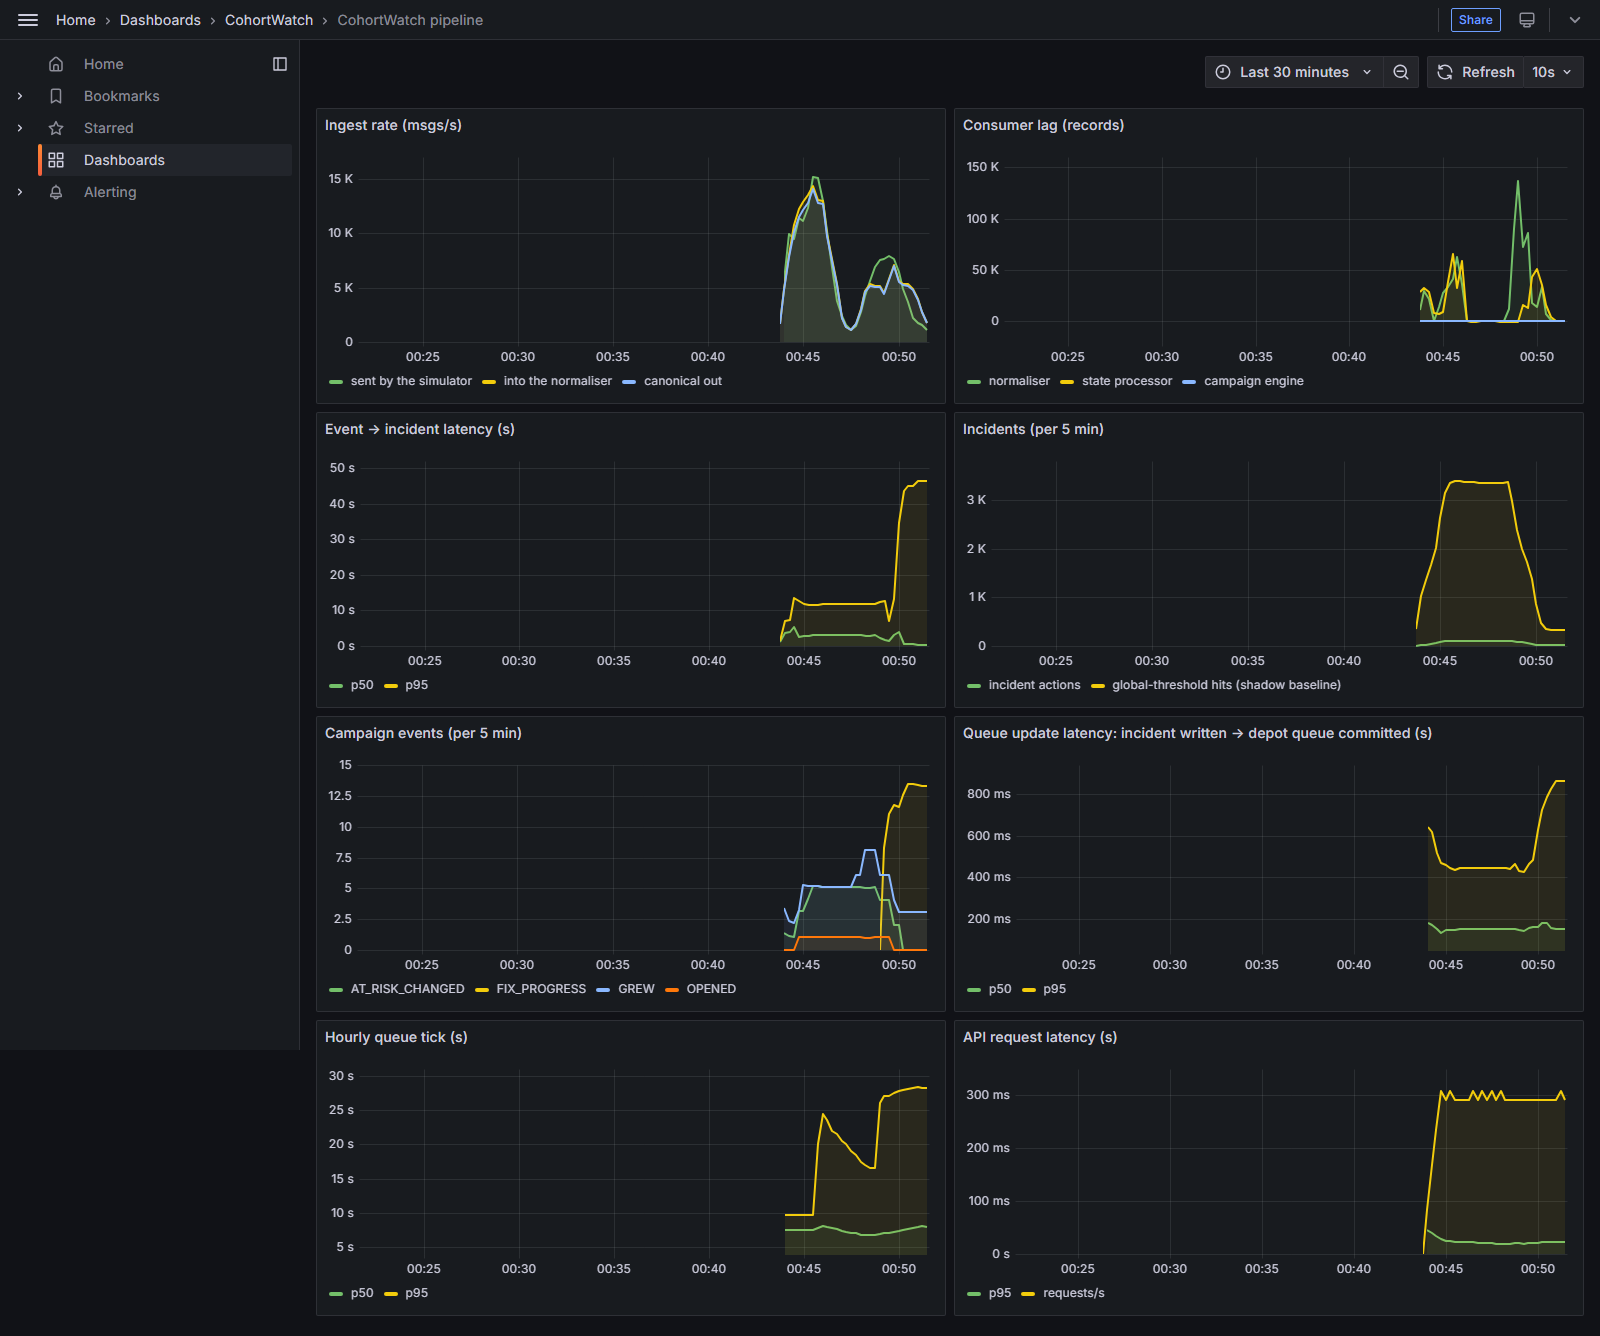
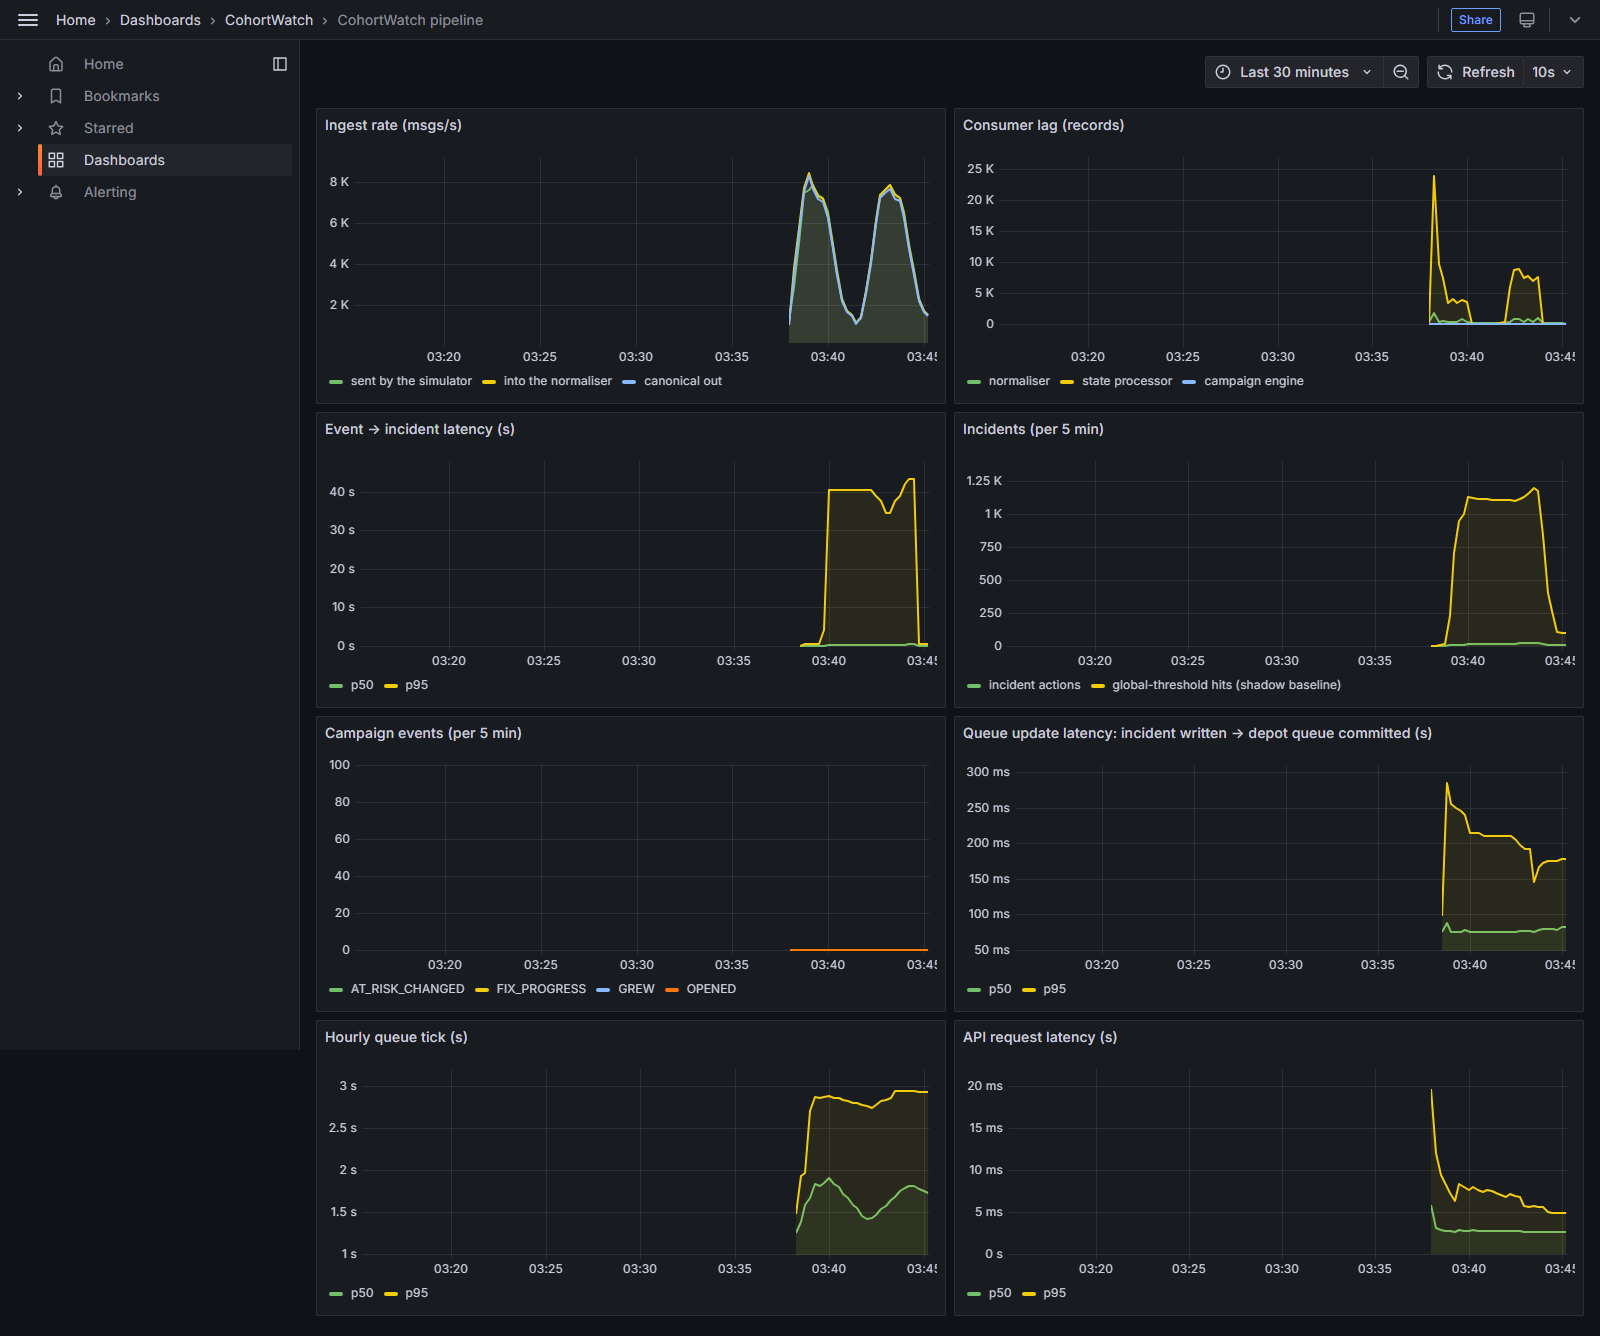
perf(S9): chaos at 30K (recovery: Redis 10 s, normaliser kill 15 s, state-processor kill 50 s; reconcile balanced after; no duplicate effects); Grafana screenshot from run C; S9 report complete

diff --git a/docs/perf/chaos.md b/docs/perf/chaos.md
@@ -1,0 +1,60 @@
+# Chaos checks (S9)
+
+**Setup.** During a live 30K run (run B, sim time past T0+100 h, the simulator still streaming at the 360× demo
+rate), [tests/chaos/run.sh](../../tests/chaos/run.sh) injects three faults, 90 s apart:
+
+1. **Redis restart** (`docker compose restart redis`). Redis holds the normaliser's per-VIN anti-replay state.
+2. **SIGKILL one normaliser replica** (`docker kill --signal=SIGKILL`), started again 10 s later with `docker start`,
+   as an orchestrator would. Docker's restart policy does not restart a container killed by hand.
+3. **SIGKILL one state-processor replica**, the same way.
+
+**Measures.**
+- **Recovery:** time from the fault until throughput is back to ≥ 80% of its level before the fault, from
+  Prometheus (5 s resolution). Canonical-out rate for the normaliser faults, events applied for the
+  state-processor fault.
+- **No loss:** a normaliser reconcile window spanning all three faults (count in = out + DLQ + duplicates
+  dropped), and a second one after the faults.
+- **No duplicate effects:** unique counts in Postgres (incidents, campaign members, repairs, queue versions)
+  and the outbox drained.
+
+## Results (run C, 30K, 2026-10-01 03:45–03:55 IST, sim ≈ T0+100 → T0+160 h)
+
+| Fault | Down | Throughput before | Lowest after | Back to ≥ 80% after |
+|---|---|---|---|---|
+| Redis restart (anti-replay state) | 1 s | 1,911 canonical/s | 726/s | **10 s** |
+| SIGKILL normaliser replica 1 (1 of 3), started again 10 s later | 11 s | 5,713 canonical/s | 709/s | **15 s** |
+| SIGKILL state-processor replica 1 (1 of 3), started again 10 s later | 11 s | 4,247 events/s | 465/s | **50 s** |
+
+The state processor takes longest: its partitions are re-assigned, and the restarted replica reloads its checkpoint
+and baselines (the 30K `vehicle_baseline` load, docs/perf/queries.md #5) before it catches up.
+
+**No loss.** The reconcile window 60 s after the faults is **BALANCED**: 106,650 raw records in = 104,123 canonical
+out + 161 DLQ + 2,366 duplicates dropped. All replicas were healthy again.
+
+**No duplicate effects** (Postgres, after all three faults):
+
+| Check | Result |
+|---|---|
+| Incidents: rows = distinct ids = distinct (VIN, family, opened_ts) | 169 = 169 = 169 |
+| Campaign members: rows = distinct (campaign, VIN) | 168 = 168 |
+| Repairs: rows = distinct (VIN, repaired_ts) | 15 = 15 |
+| Queue versions unique per depot | true |
+| Outbox rows not yet published | 0 |
+
+**Run 1 (same run, 10 min earlier)** gave the same picture:
+- State-processor kill: back in 40 s.
+- Reconcile after the faults: BALANCED, 455,673 = 445,986 + 694 + 8,993.
+- Unique counts: 157 = 157 incidents, 157 = 157 members, 15 = 15 repairs.
+
+Its Redis and normaliser recovery times are not usable: Prometheus had only just started, so there was no
+baseline. Also, a stale copy of my run script restarted Redis a second time, 3 s after the first. Run 2 is the
+clean one.
+
+## Limits
+
+- **The whole-window reconcile cannot run across a replica kill.** Its end snapshot reads every replica's
+  `/ledger`, and a killed replica's ledger (including its in-memory duplicate counter) is gone. The window after the
+  faults, plus the unique counts, is the evidence instead. Persisting the ledger counters (e.g. in Redis) would
+  make a whole-window check possible.
+- The faults are process-level on one Docker host. Network partitions, broker loss and Postgres failover are not
+  tested.

diff --git a/docs/overnight-report-2.md b/docs/overnight-report-2.md
@@ -1,6 +1,6 @@
 # Overnight report 2: Step 9 (evaluation, ML, load, tuning, observability)
 
-Run: 2026-09-30 20:14 → 2026-10-01 (hard stop 07:30 IST). Plan: [docs/plans/s9.md](plans/s9.md).
+Run: 2026-09-30 20:14 → 2026-10-01 ~04:00 IST (hard stop 07:30, capped at 05:00). Plan: [docs/plans/s9.md](plans/s9.md).
 
 ## Done-check
 
@@ -12,7 +12,7 @@ Run: 2026-09-30 20:14 → 2026-10-01 (hard stop 07:30 IST). Plan: [docs/plans/s9
 | 3 | Queue re-rank scaling | **done** | Hourly tick at 30K, same point of two runs (sim T0+87 h): mean **8.95 → 2.31 s**, p95 **27.5 → 5.7 s**. 100% of ticks now within one sim-hour (10 s at 360×), before 70%. [workshop.md](perf/workshop.md#s9-tick-scaling), ADR 0022 |
 | 4 | k6 load + soak | **done** | 30K run, pipeline live. Load (ramp to 50 users): 31,201 requests, 173 req/s, **0 errors**, p95 383 ms, p99 511 ms. Soak (20 users, 10 min) + 50 SSE clients: 94,363 requests, 157 req/s, **0 errors**, p95 240 ms, p99 341 ms. SSE: 50/50 connected, 0 dropped, 75,100 events. [load.md](perf/load.md) |
 | 5 | Query tuning | **done** | [docs/perf/queries.md](perf/queries.md): top 5 from `pg_stat_statements` at 30K. Workshop 24 h aggregate fleet-wide 6,145 → 1,279 ms (632K → 7.6K buffers). 6 h scores 2,743 → 210 ms (sort removed). Both applied. The continuous-aggregate refresh is analysed, and bounding its window is a recommendation, not a change |
-| 6 | Chaos | CHAOS_STATUS | CHAOS_NUMBERS |
+| 6 | Chaos | **done** | 30K, live. Recovery to ≥ 80% throughput: Redis restart **10 s**, normaliser SIGKILL **15 s**, state-processor SIGKILL **50 s**. Reconcile after the faults BALANCED (106,650 = 104,123 + 161 + 2,366). No duplicate effects: incidents 169 = 169, members 168 = 168, repairs 15 = 15, outbox drained. [chaos.md](perf/chaos.md). Limit: a whole-window reconcile cannot span a replica kill (its ledger dies with it) |
 | 7 | Observability | **done** | Prometheus (every replica via DNS discovery, 11 targets up) + Grafana under profile `observability`, 8-panel provisioned dashboard, [screenshot](screenshots/5-grafana.png) |
 | 8 | Pact | **done** | Consumer contract web → API (queue + campaign) in the CI unit job. The provider is verified against the real API + TimescaleDB in the integration job. The pact file is committed |
 
@@ -65,6 +65,11 @@ Run: 2026-09-30 20:14 → 2026-10-01 (hard stop 07:30 IST). Plan: [docs/plans/s9
     With the default limit, a smoke run got 80% 429s, which is the limiter working.
 18. **Docker Desktop stopped a third time** (about 01:30), losing the first seed-7 training run. It was re-run. Long
     background chains now restart Docker if the engine disappears.
+
+19. **A stale background chain.** One background script I had "stopped" at 02:40 kept running, in parallel with its
+    replacement. The ML results are unaffected (same seeds and code give the same output). It did cause a double Redis
+    restart in chaos run 1 and a missing Prometheus. Chaos was re-run cleanly (run 2), and that run is the one reported.
+20. **Time cap.** S9 closed at about 04:00 IST, inside your 05:00 cap. The ML *wiring* is the only part left partial.
 
 ## Not deleted (for you to decide)
 
